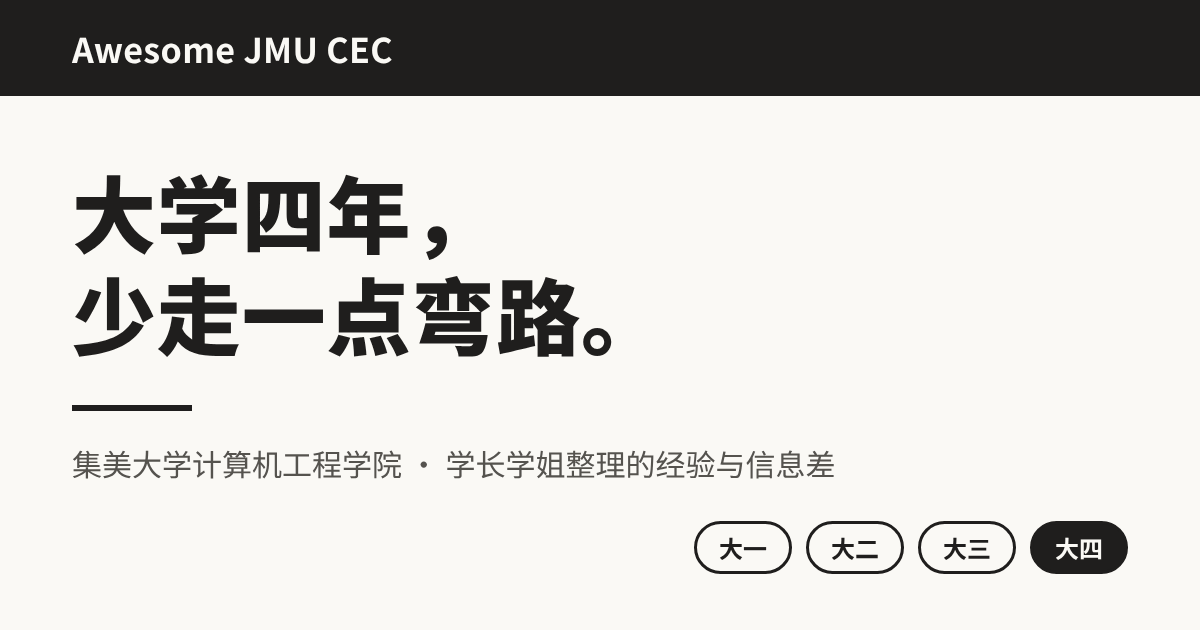
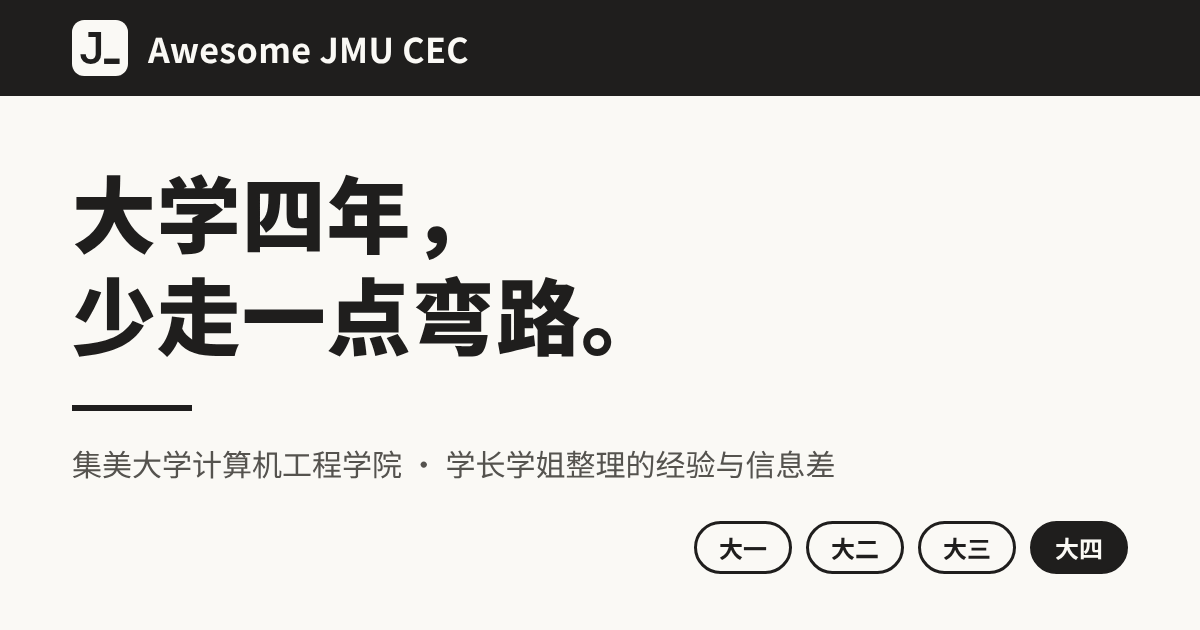
feat: 新网站图标「J_」与分享图标志
- 终端光标风格：JetBrains Mono Bold 的 J（转为路径，不依赖字体）+ 与笔画同粗的光标条，底边对齐；左右、上下留白各自相等
- 新增 32px PNG、180px 苹果主屏图标、512px 图标与 site.webmanifest
- 分享卡片 og.png 顶栏加入反色版标志
- verify-build 检查图标文件

Claude-Session: https://claude.ai/code/session_01Mg57TwywJcNqhxXS9zjtKy

Changed region(s): [[0.0617, 0.0302, 0.4008, 0.1206]]

diff --git a/PLAN.md b/PLAN.md
@@ -361,6 +361,7 @@ Plan A 本方案；Plan B 升级破坏内置搜索时自维护官方搜索组件
 - **收录与分享（2026-10）**：`SITE_URL`（config.mts，换域名只改这里和 verify-build.mjs 的同名常量）→ `sitemap.xml`（排除 404）、buildEnd 生成 `robots.txt`；`transformHead` 按页输出 canonical、Open Graph、Twitter Card，配图统一 `public/og.png`（1200×630）；只写 summary 的文章用 summary 作页面描述。verify-build 断言以上产物。
 - **访问统计（2026-10）**：Cloudflare Web Analytics，在 Cloudflare 后台 Pages 项目 → Metrics → Web Analytics 开启，部署时自动注入，无需改代码；不使用 Cookie。关于页「隐私」一节有说明。这是全站唯一的第三方请求（static.cloudflareinsights.com）。
 - **校园地图（2026-10）**：`/map/`（`CampusMap.vue`，异步组件，MapLibre GL 单独成块只在本页加载）。数据：`data/osm/jmu-campus.osm`（OpenStreetMap 导出，ODbL）→ `npm run map:build`（`scripts/build-campus-map.mjs`）→ `docs/public/map/campus.geojson`（只含集美大学各校区内的建筑/水面/运动场/道路，不含行政界线和校外建筑）+ `docs/map/places.generated.json`；人工修正在 `docs/map/places.yaml`（`theme/map.data.ts` 合并）。无瓦片、无第三方地图服务；定位用浏览器 Geolocation（WGS-84 与 OSM 一致，无需纠偏），只在浏览器内使用。入口：顶栏地图图标（`NavMapLink.vue`，nav-bar-content-after 插槽）、首页卡片（`mapPreview.data.ts` 生成平面预览）。测试检查提交的数据与 .osm 同步；verify-build 检查数据与人工修正生效。
+- **网站图标（2026-10）**：「J_」终端光标风格——JetBrains Mono Bold（OFL）的 J 字形转成路径，加一条与 J 笔画同粗的光标条，底边与 J 对齐；整体左右、上下留白各自相等。文件：`public/favicon.svg`、`favicon-32.png`、`apple-touch-icon.png`（180，方形满版，系统自行裁圆角）、`icon-512.png`、`site.webmanifest`；分享图 `og.png` 顶栏用反色版标志。
 - `cleanUrls: true`。已知 dev 细节：新增文件要重启 `npm run dev` 才进侧栏（对贡献者无影响，写入维护者文档）。
 
 ---
